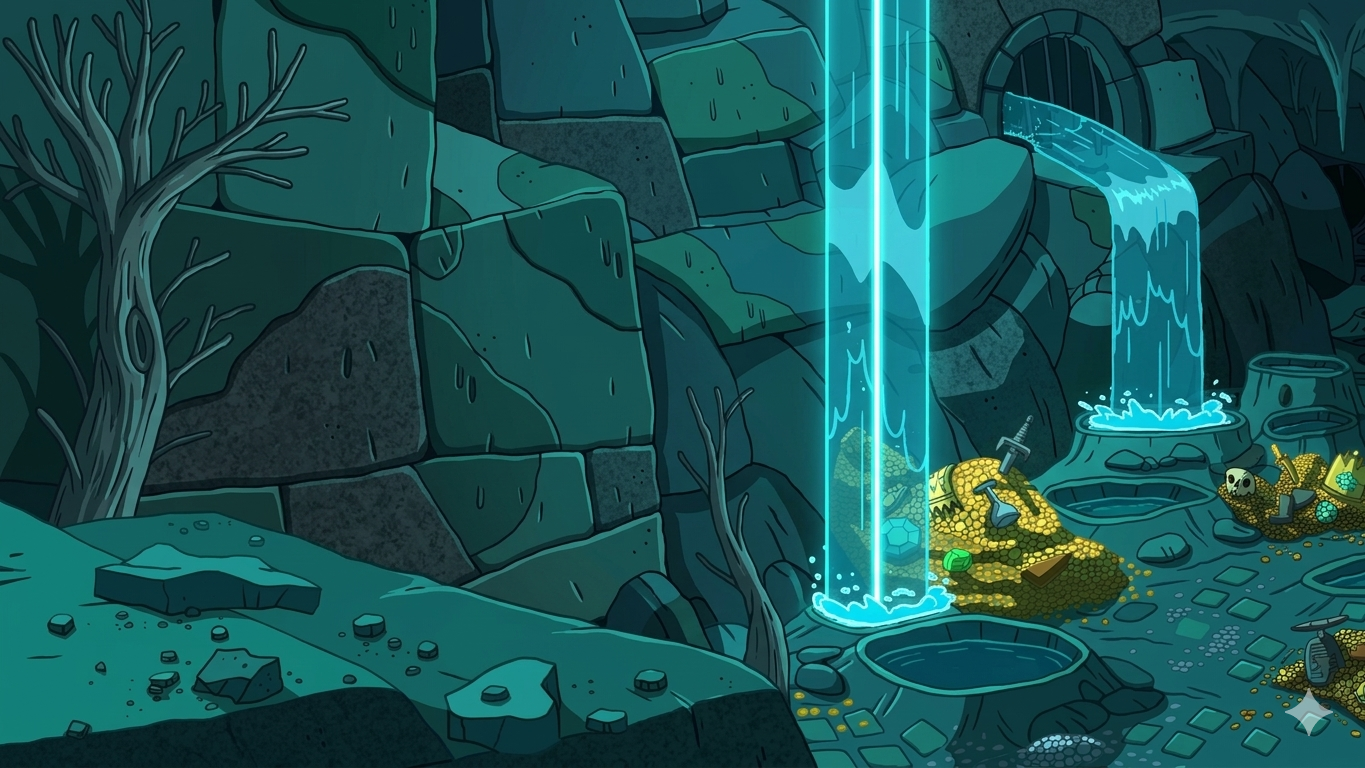
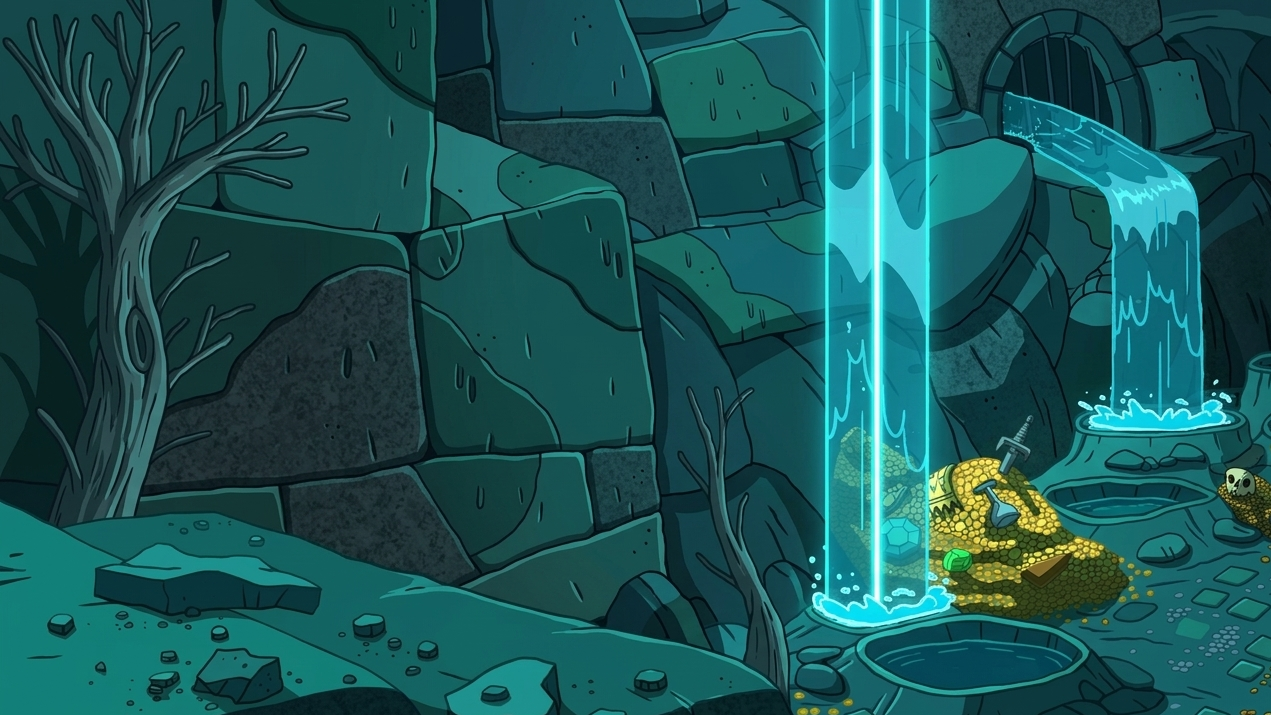
feat: add floating glassmorphism pouch button with checkout redirection

diff --git a/src/app/menu/menu.css b/src/app/menu/menu.css
@@ -5,7 +5,6 @@
   box-sizing: border-box;
 }
 
-/* Master style rule applied to all black section divider boxes */
 .section-shop-header {
   text-align: center;
   margin: 40px 0 25px 0;
@@ -35,9 +34,8 @@
   text-shadow: 1px 1px 2px rgba(0, 0, 0, 0.5);
 }
 
-/* Scroll mapping boundary spacer metrics */
 .category-anchor {
-  height: 80px; /* Provides clean padding when scrolling down to a section */
+  height: 80px;
   width: 100%;
 }
 
@@ -47,4 +45,90 @@
   gap: 30px;
   width: 100%;
   margin-bottom: 20px;
+}
+
+.floating-pouch-btn {
+  position: fixed;
+  bottom: 25px;
+  right: 25px;
+  background: rgba(255, 255, 255, 0.2);
+  backdrop-filter: blur(12px);
+  -webkit-backdrop-filter: blur(12px);
+  border: 1px solid rgba(255, 255, 255, 0.3);
+  border-radius: 16px;
+  padding: 12px 20px;
+  box-shadow: 0 8px 32px 0 rgba(0, 0, 0, 0.4);
+  cursor: pointer;
+  z-index: 1000;
+  transition: all 0.2s cubic-bezier(0.175, 0.885, 0.32, 1.275);
+  animation: slideInUp 0.3s ease-out;
+}
+
+.floating-pouch-btn:hover {
+  transform: translateY(-5px) scale(1.02);
+  background: rgba(255, 255, 255, 0.25);
+  border-color: rgba(255, 255, 255, 0.4);
+  box-shadow: 0 12px 40px 0 rgba(0, 0, 0, 0.5);
+}
+
+.floating-pouch-btn:active {
+  transform: translateY(-2px) scale(0.98);
+}
+
+.floating-btn-content {
+  display: flex;
+  align-items: center;
+  gap: 15px;
+  text-align: left;
+}
+
+.floating-pouch-icon {
+  font-size: 2rem;
+  filter: drop-shadow(0 2px 4px rgba(0,0,0,0.2));
+}
+
+.floating-text-group {
+  display: flex;
+  flex-direction: column;
+}
+
+.floating-btn-title {
+  color: #ffffff;
+  font-weight: 700;
+  font-size: 1rem;
+  letter-spacing: 0.5px;
+}
+
+.floating-btn-subtitle {
+  color: #fdd835;
+  font-weight: 600;
+  font-size: 0.85rem;
+  margin-top: 2px;
+}
+
+.floating-arrow-action {
+  background: #ffc107;
+  color: #212529;
+  font-weight: bold;
+  padding: 6px 14px;
+  border-radius: 8px;
+  font-size: 0.9rem;
+  margin-left: 10px;
+  box-shadow: 0 2px 4px rgba(0,0,0,0.15);
+  transition: background 0.2s;
+}
+
+.floating-pouch-btn:hover .floating-arrow-action {
+  background: #ffb300;
+}
+
+@keyframes slideInUp {
+  from {
+    transform: translateY(100px);
+    opacity: 0;
+  }
+  to {
+    transform: translateY(0);
+    opacity: 1;
+  }
 }

diff --git a/src/app/menu/menu.html b/src/app/menu/menu.html
@@ -1,6 +1,5 @@
 <div class="menu-container">
 
-  <!-- --- 🧪 POTIONS SECTION --- -->
   <div class="category-anchor" id="Potions"></div>
   <header class="section-shop-header">
     <h1>Pure Potions</h1>
@@ -15,7 +14,6 @@
     }
   </div>
 
-  <!-- --- ⚔️ WEAPONS SECTION --- -->
   <div class="category-anchor" id="Weapons"></div>
   <header class="section-shop-header">
     <h1>Heroic Weapons</h1>
@@ -30,7 +28,6 @@
     }
   </div>
 
-  <!-- --- 🧥 ENCHANTED GEAR SECTION --- -->
   <div class="category-anchor" id="Enchanted Gear"></div>
   <header class="section-shop-header">
     <h1>Enchanted Gear</h1>
@@ -44,5 +41,20 @@
       }
     }
   </div>
+
+  @if (store.cartCount() > 0) {
+    <button class="floating-pouch-btn" (click)="navigateToPouch()">
+      <div class="floating-btn-content">
+        <span class="floating-pouch-icon">💰</span>
+        <div class="floating-text-group">
+          <span class="floating-btn-title">View Adventure Pouch</span>
+          <span class="floating-btn-subtitle">
+            {{ store.cartCount() }} {{ store.cartCount() === 1 ? 'item' : 'items' }} · {{ store.totalPrice() }} 💰
+          </span>
+        </div>
+        <span class="floating-arrow-action">⚔️ Checkout</span>
+      </div>
+    </button>
+  }
 
 </div>

diff --git a/src/app/menu/menu.ts b/src/app/menu/menu.ts
@@ -1,6 +1,6 @@
 import { Component, inject, AfterViewInit } from '@angular/core';
 import { CommonModule } from '@angular/common';
-import { RouterModule } from '@angular/router';
+import { RouterModule, Router } from '@angular/router';
 import { KioskStoreService, ShopItem } from '../services/kiosk-store';
 import { ProductCardComponent } from '../product-card/product-card';
 
@@ -12,10 +12,10 @@ import { ProductCardComponent } from '../product-card/product-card';
   styleUrls: ['./menu.css']
 })
 export class MenuComponent implements AfterViewInit {
-  private store = inject(KioskStoreService);
+  public store = inject(KioskStoreService);
+  private router = inject(Router);
 
   public currentCategory = this.store.activeCategory;
-  
   public products = this.store.products;
 
   ngAfterViewInit() {
@@ -32,5 +32,9 @@ export class MenuComponent implements AfterViewInit {
 
   onAddItem(item: ShopItem) {
     this.store.addToCart(item);
+  }
+
+  navigateToPouch() {
+    this.router.navigate(['/cart']);
   }
 }

diff --git a/src/app/cart-item-row/cart-item-row.html b/src/app/cart-item-row/cart-item-row.html
@@ -5,7 +5,7 @@
   
   <div class="item-details">
     <h4 class="item-name">{{ item.name }}</h4>
-    <p class="item-price">{{ item.price }} <span class="gold-coin">🪙</span> <small>each</small></p>
+    <p class="item-price">{{ item.price }} 💰 <small>each</small></p>
   </div>
 
   <div class="quantity-controls">
@@ -15,7 +15,7 @@
   </div>
 
   <div class="item-total-section">
-    <span class="total-cost">{{ item.price * item.quantity }} 🪙</span>
+    <span class="total-cost">{{ item.price * item.quantity }} 💰</span>
     <button class="remove-btn" (click)="handleRemoval()" title="Discard Item">🗑️</button>
   </div>
 </div>